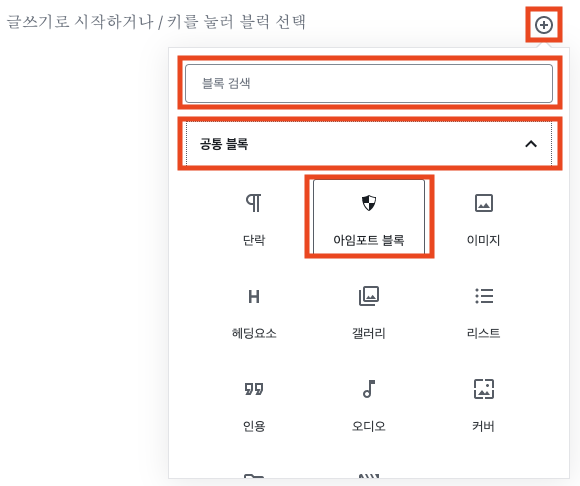
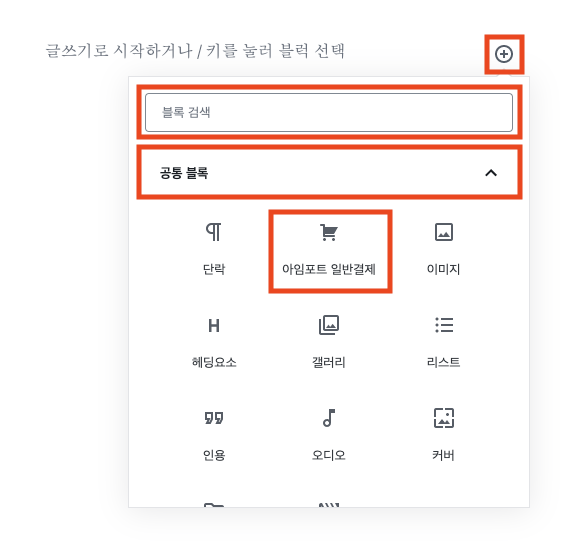
[매뉴얼] 입력힌트, 약관 동의 유형 매뉴얼 추가

diff --git a/view/admin/IamportBlockManual.php b/view/admin/IamportBlockManual.php
@@ -14,10 +14,10 @@
       <h2><span>STEP1</span>아임포트 블록 추가</h2>
       <div class="iamport-block-left">
         <p>
-          페이지에서 + 버튼을 누르면 아래와 같이 워드프레스가 기본적으로 제공하는 위젯의 목록을 확인 할 수 있습니다. 이 중 <code>아임포트 블록</code>을 찾아 선택하면 페이지에 결제 창을 커스터마이징 할 수 있는 화면이 생성됩니다.
+          페이지에서 + 버튼을 누르면 아래와 같이 워드프레스가 기본적으로 제공하는 위젯의 목록을 확인 할 수 있습니다. 이 중 <code>아임포트 일반결제</code> 블록을 찾아 선택하면 페이지에 결제 창을 커스터마이징 할 수 있는 화면이 생성됩니다.
         </p>
         <p>
-          위젯의 종류가 많아 <code>아임포트</code> 블록을 찾는데 어려움이 있으신 경우, <code>아임포트 블록</code>이라는 키워드로 블록을 검색 하실 수 있습니다. 또한 <code>공통 블록</code> 카테고리를 선택하시면 보다 빠르게 아임포트 블록을 찾으실 수 있습니다.
+          위젯의 종류가 많아 <code>아임포트 일반결제</code> 블록을 찾는데 어려움이 있으신 경우, <code>아임포트 일반결제</code>라는 키워드로 블록을 검색 하실 수 있습니다. 또한 <code>공통 블록</code> 카테고리를 선택하시면 보다 빠르게 <code>아임포트 일반결제</code> 블록을 찾으실 수 있습니다.
         </p>
       </div>
       <div class="iamport-block-left iamport-text-center">
@@ -151,6 +151,7 @@
           <li>-<code>고정형</code>: 구매자가 항상 정해진 금액으로 결제하는 방식</li>
           <li>-<code>가변형</code>: 구매자가 결제할 금액을 직접 입력하는 방식(면세금액 설정 불가)</li>
           <li>-<code>고정형</code>: 구매자가 결제할 금액을 N개의 옵션 중 선택하는 방식</li>
+          <li>-<code>무료형</code>: 구매자가 기부하는 방식(결제가 진행되지는 않지만 결제내역에 데이터가 쌓임)</li>
         </ul>
       </div>
       <div class="iamport-block-left iamport-text-center">
@@ -228,7 +229,13 @@
       </div>
       <div class="iamport-block-clear"></div>
 
-      <h3><span>4</span>입력 옵션</h3>
+      <h3><span>4</span>입력 힌트</h3>
+      <div class="iamport-block-left">
+        <p>텍스트 유형의 입력 필드의 경우, 입력 값에 대해 사용자에게 제공할 힌트를 설정할 수 있습니다.</p>
+      </div>
+      <div class="iamport-block-clear"></div>
+
+      <h3><span>5</span>입력 옵션</h3>
       <div class="iamport-block-left">
         <p><code>복수 선택</code>, <code>단일 선택(라디오/드롭다운)</code> 유형의 필드는 유저로부터 입력/선택 가능한 옵션을 제공해야 합니다. 오른쪽 그림 속 + 버튼을 통해 새 옵션을 추가할 수 있고, X 버튼을 통해 추가된 옵션을 삭제할 수 있습니다.</p>
         <p>옵션 값은 1개 이상 입력해야 하며, 각 옵션 값은 하나의 필드에 대해 반드시 유일한 값이어야 합니다.</p>
@@ -238,9 +245,9 @@
       </div>
       <div class="iamport-block-clear"></div>
 
-      <h3><span>5</span>약관 옵션</h3>
+      <h3><span>6</span>약관 옵션</h3>
       <div class="iamport-block-left">
-        <p><code>약관 동의</code> 유형의 필드는 유저가 약관을 확인할 수 있도록 약관이 명시된 링크를 설정해야 합니다. 하나의 약관 동의 필드에 대해, 2개 이상의 약관을 설정할 수 있으며 위 <code>복수/단일 선택</code> 필드 처럼 약관을 추가 또는 삭제할 수 있습니다. 이때 <code>약관 라벨</code>값은 반드시 유일한 값이어야 합니다.</p>
+        <p><code>약관 동의</code> 유형의 필드는 유저가 약관을 확인할 수 있도록 약관이 명시된 <code>링크</code>를 설정하거나 약관 <code>전문</code>을 직접 표기해야 합니다. 하나의 약관 동의 필드에 대해, 2개 이상의 약관을 설정할 수 있으며 위 <code>복수/단일 선택</code> 필드 처럼 약관을 추가 또는 삭제할 수 있습니다. 이때 <code>약관 라벨</code>값은 반드시 유일한 값이어야 합니다.</p>
       </div>
       <div class="iamport-block-left iamport-text-center">
         <img src="<?=plugin_dir_url( __FILE__ )?>../../assets/img/agreement-fields.png" alt="약관 동의 옵션"/>
